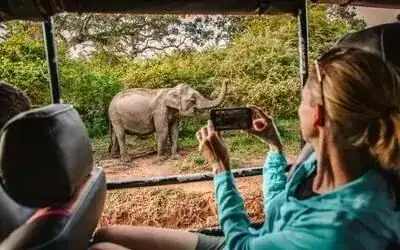
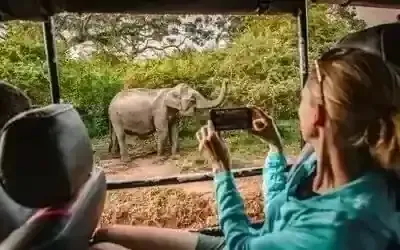
...

diff --git a/src/index.html b/src/index.html
@@ -33,8 +33,10 @@
   <meta name="viewport" content="width=device-width, initial-scale=1">
   <!-- Preload LCP image with high fetchpriority -->
   <link rel="preload" as="image" href="assets/img/mainpage/1.webp" fetchpriority="high" type="image/webp">
+  <!-- Preload critical self-hosted webfonts -->
+  <link rel="preload" href="/media/poppins-latin-400-normal-SFWTNBQB.woff2" as="font" type="font/woff2" crossorigin>
+  <link rel="preload" href="/media/poppins-latin-600-normal-3BUSBBSI.woff2" as="font" type="font/woff2" crossorigin>
   <!-- Preconnect to critical third-party origins -->
-  <link rel="preconnect" href="https://fonts.gstatic.com" crossorigin>
   <link rel="dns-prefetch" href="https://flagcdn.com">
   <link rel="dns-prefetch" href="https://www.googletagmanager.com">
   <meta name="google" content="notranslate">

diff --git a/src/styles.scss b/src/styles.scss
@@ -47,3 +47,13 @@ button,
 body > .skiptranslate {
   display: none !important;
 }
+
+/* Force font-display: swap on FontAwesome fonts to satisfy Lighthouse audits */
+@font-face {
+  font-family: 'Font Awesome 5 Free';
+  font-display: swap;
+}
+@font-face {
+  font-family: 'Font Awesome 5 Brands';
+  font-display: swap;
+}
